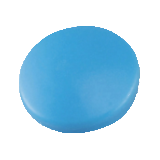
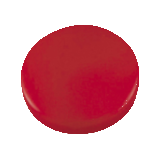
Les joueurs ont des noms humains ; leurs images, améliorées avec des coins arrondis

diff --git a/src/main/labyrinth/views/ViewsForObservers/GameBoardFacadeView.java b/src/main/labyrinth/views/ViewsForObservers/GameBoardFacadeView.java
@@ -19,6 +19,10 @@ import java.awt.image.BufferedImage;
 import java.io.IOException;
 import java.util.*;
 import java.util.List;
+import java.awt.Graphics;
+import java.awt.Graphics2D;
+import java.awt.RenderingHints;
+import java.awt.geom.RoundRectangle2D;
 
 
 public class GameBoardFacadeView extends JPanel implements GameBoardObserver, GameFacadeObserver {
@@ -437,12 +441,15 @@ public class GameBoardFacadeView extends JPanel implements GameBoardObserver, Ga
 
     private void drawPlayers(Graphics g, int xOffset, int yOffset) {
         Player[] players = gameFacade.get_players();
+        Graphics2D g2d = (Graphics2D) g;  // Convertir Graphics en Graphics2D
+        g2d.setRenderingHint(RenderingHints.KEY_ANTIALIASING, RenderingHints.VALUE_ANTIALIAS_ON); // Activer l'anti-aliasing pour améliorer le rendu
+
         for (int i = 0; i < players.length; i++) {
             int x = 0, y = 0;
             switch (i) {
                 case 0:
                     x = xOffset - PLAYER_SIZE / 1;
-                    y = yOffset - PLAYER_SIZE / 4;
+                    y = yOffset - PLAYER_SIZE / 4; //players
                     break;
                 case 1:
                     x = xOffset + BOARD_SIZE - PLAYER_SIZE / 100;
@@ -460,10 +467,21 @@ public class GameBoardFacadeView extends JPanel implements GameBoardObserver, Ga
 
             BufferedImage playerImage = imageStore.getPlayerIcons(i);
             if (playerImage != null) {
-                g.drawImage(playerImage, x, y, PLAYER_SIZE, PLAYER_SIZE, null);
+                // Créer une forme arrondie
+                RoundRectangle2D roundedRectangle = new RoundRectangle2D.Double(x, y, PLAYER_SIZE, PLAYER_SIZE, 20, 20); // 20 pixels de rayon pour les coins arrondis
+
+                // Définir le clip pour dessiner l'image avec des coins arrondis
+                g2d.setClip(roundedRectangle);
+
+                // Dessiner l'image dans la zone découpée
+                g2d.drawImage(playerImage, x, y, PLAYER_SIZE, PLAYER_SIZE, null);
+
+                // Réinitialiser le clip
+                g2d.setClip(null);
             }
-            g.setColor(Color.BLACK);
-            g.drawString(players[i].getName(), x + 5, y + PLAYER_SIZE + 15);
+
+            g2d.setColor(Color.BLACK);
+            g2d.drawString(players[i].getName(), x + 5, y + PLAYER_SIZE + 15);
         }
     }
 

diff --git a/src/main/labyrinth/models/data/ImageStore.java b/src/main/labyrinth/models/data/ImageStore.java
@@ -238,9 +238,9 @@ public class ImageStore {
     private BufferedImage[] chargerImagesPourJoueurs() {
         BufferedImage[] playersImages = new BufferedImage[4];
 
-        playersImages[0] = loadImage("../res/img/players/blueplayer.png");
+        playersImages[0] = loadImage("../res/img/players/redplayer.png");
         playersImages[1] = loadImage("../res/img/players/greenplayer.png");
-        playersImages[2] = loadImage("../res/img/players/redplayer.png");
+        playersImages[2] = loadImage("../res/img/players/blueplayer.png");
         playersImages[3] = loadImage("../res/img/players/yellowplayer.png");
 
         return playersImages;

diff --git a/src/main/labyrinth/models/game/GameFacade.java b/src/main/labyrinth/models/game/GameFacade.java
@@ -24,9 +24,10 @@ public class GameFacade {
     public GameFacade() {
         _players = new Player[4];
 
-        for (int i = 0; i < 4; i++) {
-            _players[i] = new Player(i, "Player " + (i + 1));
+        String[] playerNames = {"Alice", "Bob", "Charlie", "Eve"};
 
+        for (int i = 0; i < 4; i++) {
+            _players[i] = new Player(i, playerNames[i]);
         }
 
         deal(); // Distribuer les cartes au démarrage du jeu
